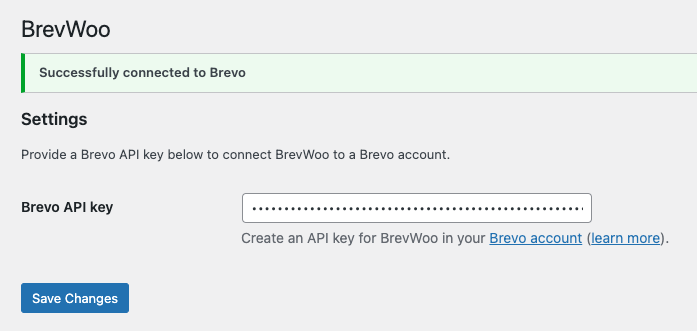
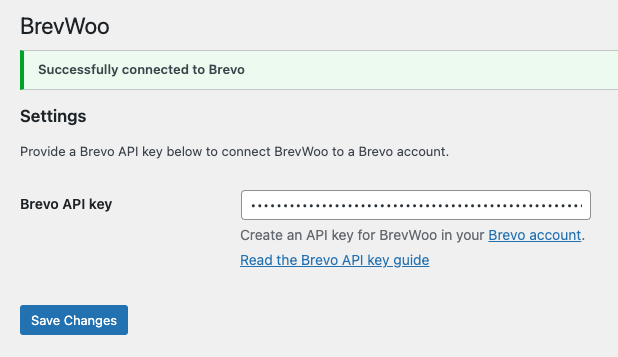
Improve links under Brevo API key input

diff --git a/includes/admin.php b/includes/admin.php
@@ -209,20 +209,13 @@ class BrevWooAdmin
         );
 
         printf(
-            '<p class="description">%s</p>',
-            sprintf(
-                // translators: 1: Link to the user's Brevo account, 2: Link to the Brevo documentation
-                esc_html__(
-                    'Create an API key for BrevWoo in your %1$s (%2$s).',
-                    'brevwoo'
-                ),
-                '<a href="https://app.brevo.com/settings/keys/api" target="_blank">' .
-                    esc_html__('Brevo account', 'brevwoo') .
-                    '</a>',
-                '<a href="https://developers.brevo.com/docs/getting-started#quick-start" target="_blank">' .
-                    esc_html__('learn more', 'brevwoo') .
-                    '</a>'
-            )
+            '<p class="description">%s <a href="https://app.brevo.com/settings/keys/api" target="_blank">%s</a>.</p>',
+            esc_html__('Create an API key for BrevWoo in your', 'brevwoo'),
+            esc_html__('Brevo account', 'brevwoo')
+        );
+        printf(
+            '<p class="description"><a href="https://developers.brevo.com/docs/getting-started#quick-start" target="_blank">%s</a></p>',
+            esc_html__('Read the Brevo API key guide', 'brevwoo')
         );
     }
 
